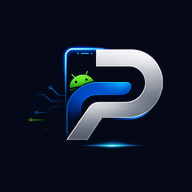
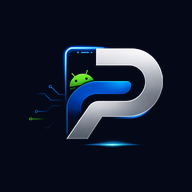
feat(intro): مونتاژ سینمایی لوگوی جدید + هالهی طلایی چرخان + فرود تاج پادشاهی
ترتیب جدید سینمایی ورود (فقط صفحهی اصلی، روی لوگوی رسمی جدید):
۱) تکهبهتکه: ۶ قطعهی مکمل از خود لوگو (clip-path روی یک تصویر) از چهار
   جهت با بلور و درخشش پرواز میکنند و روی جای خود با ضربهی نرم قفل
   میشوند (0.2s تا 2.1s)؛ لوگوی کامل بدون درز جانشین میشود.
۲) فینال طلایی: هالهی طلایی چرخان (conic + mask رینگ) همراه دو مدار
   موجود دور لوگوی کامل میچرخد؛ ستارهها و تگلاین بعد از مونتاژ.
۳) تاج پادشاهی (همان crown.svg برند): از بالا با چرخش و ریباند نرم روی
   «سر» لوگو مینشیند و با فلاش طلایی (intro-burst) و درخشش تپنده تمام
   میشود.
- لوگوی شفاف: آلفای هالهی کمرمق فشرده شد (گاما 1.55 + کف 12 + پرِ لبه)
  تا هیچ کادر/مربع محویی پشت لوگو دیده نشود و ماسکها تمیز بمانند.
- سقفهای زمانی با صحنهی بلندتر همگام شد: MIN=4450ms، MAX=7600ms
  (سقف سخت حفظ شده؛ reduced-motion همان نسخهی سادهی سریع خودش —
  تکه/تاج/هاله نمایش داده نمیشوند).
- برش sheen داخل لوگو-باکس حذف و بهجای آن ظرف برش مستقل؛ سپس با
  توجه به فینال جدید، sheen از تایملاین خارج شد (قاعدهی mask حفظ شد).

تستها: 222/222 سبز. بررسی بصری موبایل (390×844@2x) و دسکتاپ (1280)
فریمبهفریم انجام شد؛ بدون پرش RTL، بدون درز مونتاژ.

diff --git a/style.css b/style.css
@@ -4131,8 +4131,8 @@ body.light .field textarea {
   mask: radial-gradient(farthest-side, transparent calc(100% - 3.5px), #000 calc(100% - 1px));
   filter: drop-shadow(0 0 6px rgba(249, 200, 90, 0.8));
   animation:
-    introOrbitIn 1.1s ease 0.95s forwards,
-    introOrbitSpin 6.5s linear 0.95s infinite;
+    introOrbitIn 1.1s ease 2.2s forwards,
+    introOrbitSpin 6.5s linear 2.2s infinite;
   pointer-events: none;
 }
 
@@ -4149,31 +4149,75 @@ body.light .field textarea {
   );
   filter: drop-shadow(0 0 4px rgba(249, 200, 90, 0.6));
   animation:
-    introOrbitIn 1.1s ease 1.2s forwards,
-    introOrbitSpinRev 9s linear 1.2s infinite;
+    introOrbitIn 1.1s ease 2.35s forwards,
+    introOrbitSpinRev 9s linear 2.35s infinite;
 }
 
-/* لوگو: متمرکز شدن سینمایی (focus-pull) + درخشش دائمی */
+/* لوگو: مونتاژ قطعهبهقطعه — هر تکه از یک جهت با بلور و درخشش میآید
+   و روی جای خود «قفل» میشود؛ در انتها لوگوی کامل بدون درز جانشین میشود */
 .js .intro-logo-box {
   position: relative;
   line-height: 0;
-  overflow: hidden; /* برق نور (sheen) فقط داخل کادر لوگو دیده شود؛ وگرنه
-                       نسخهی ماسکشدهاش هنگام حرکت، لبهی صفحه ظاهر میشد */
-  opacity: 0;
-  transform: scale(1.16);
-  filter: blur(18px) brightness(0.55);
-  animation:
-    introLogoIn 1.25s cubic-bezier(0.19, 1, 0.22, 1) 0.12s forwards,
-    introLogoGlow 3.6s ease-in-out 1.9s infinite;
+  animation: introLogoGlow 3.6s ease-in-out 2.3s infinite;
 }
 
+.js .intro-piece {
+  position: absolute;
+  inset: 0;
+  z-index: 1;
+  background: url("assets/brand/parsa-main-logo-transparent.png") center / 100% 100% no-repeat;
+  opacity: 0;
+  transform: translate(var(--dx), var(--dy)) rotate(var(--rot)) scale(1.14);
+  filter: blur(12px) brightness(1.7);
+  animation: introPieceIn 0.95s cubic-bezier(0.18, 0.9, 0.24, 1.12) var(--d) forwards;
+  will-change: transform, opacity, filter;
+  pointer-events: none;
+}
+
+.js .intro-piece.pc1 {
+  clip-path: polygon(0 0, 55% 0, 40% 55%, 0 62%);
+  --dx: -132%; --dy: -26%; --rot: -14deg; --d: 0.2s;
+}
+
+.js .intro-piece.pc2 {
+  clip-path: polygon(55% 0, 100% 0, 100% 58%, 40% 55%);
+  --dx: 132%; --dy: -30%; --rot: 12deg; --d: 0.38s;
+}
+
+.js .intro-piece.pc3 {
+  clip-path: polygon(0 62%, 40% 55%, 46% 76%, 0 76%);
+  --dx: -142%; --dy: 20%; --rot: 10deg; --d: 0.56s;
+}
+
+.js .intro-piece.pc4 {
+  clip-path: polygon(40% 55%, 100% 58%, 100% 76%, 46% 76%);
+  --dx: 142%; --dy: 24%; --rot: -9deg; --d: 0.74s;
+}
+
+.js .intro-piece.pc5 {
+  clip-path: polygon(0 76%, 100% 76%, 100% 92%, 0 92%);
+  --dx: 0%; --dy: 175%; --rot: 0deg; --d: 0.98s;
+}
+
+.js .intro-piece.pc6 {
+  clip-path: polygon(0 92%, 100% 92%, 100% 100%, 0 100%);
+  --dx: 0%; --dy: 235%; --rot: 0deg; --d: 1.14s;
+}
+
+/* لوگوی کامل: بعد از نشستن تکهها، بدون درز جانشین میشود */
 .js .intro-logo {
+  position: relative;
+  z-index: 2;
   display: block;
   width: 100%;
   height: auto;
+  opacity: 0;
+  animation: introLogoSolidify 0.5s ease 2.2s forwards;
 }
 
-/* برق نور که دقیقاً از روی شکل لوگو میگذرد (mask = خود لوگو) */
+/* برق نور روی لوگو (mask = خود لوگو): در تایملاین مونتاژ استفاده نمیشود
+   — فینال با هالهی چرخان، فلاش تاج و درخشش لوگو انجام میشود — اما
+   قاعده و ماسک برای سازگاری آینده نگه داشته شده است. */
 .js .intro-sheen {
   position: absolute;
   inset: 0;
@@ -4190,7 +4234,70 @@ body.light .field textarea {
   mix-blend-mode: screen;
   transform: translateX(-130%) skewX(-16deg);
   opacity: 0;
-  animation: introSheen 1.5s cubic-bezier(0.4, 0, 0.2, 1) 1.25s 2;
+  pointer-events: none;
+}
+
+/* هالهی طلایی چرخان دور لوگوی کامل (فینال مونتاژ) */
+.js .intro-halo {
+  position: absolute;
+  inset: -9%;
+  z-index: 2;
+  border-radius: 50%;
+  background: conic-gradient(
+    from 0deg,
+    transparent 0deg,
+    rgba(255, 214, 120, 0.07) 58deg,
+    rgba(255, 226, 150, 0.55) 98deg,
+    rgba(255, 246, 220, 0.98) 118deg,
+    rgba(255, 214, 120, 0.07) 178deg,
+    transparent 240deg,
+    transparent 360deg
+  );
+  -webkit-mask: radial-gradient(farthest-side, transparent calc(100% - 6.5px), #000 calc(100% - 2px));
+  mask: radial-gradient(farthest-side, transparent calc(100% - 6.5px), #000 calc(100% - 2px));
+  filter: drop-shadow(0 0 13px rgba(249, 200, 90, 0.8));
+  opacity: 0;
+  animation:
+    introFadeIn 0.9s ease 2.25s forwards,
+    introHaloSpin 7s linear 2.25s infinite;
+  pointer-events: none;
+}
+
+/* تاج پادشاهی: از بالا فرود میآید، روی «سر» لوگو مینشیند و میدرخشد */
+.js .intro-crown {
+  position: absolute;
+  z-index: 5;
+  top: 1%;
+  left: 50%;
+  width: 33%;
+  margin-left: -16.5%;
+  opacity: 0;
+  transform: translateY(-190%) rotate(-16deg) scale(1.3);
+  filter: blur(5px) drop-shadow(0 10px 16px rgba(0, 0, 0, 0.45));
+  animation:
+    introCrownDrop 1.05s cubic-bezier(0.32, 1.16, 0.4, 1) 2.9s forwards,
+    introCrownGlow 2.8s ease-in-out 4.05s infinite;
+  pointer-events: none;
+}
+
+/* فلاش طلایی لحظهی نشستن تاج */
+.js .intro-burst {
+  position: absolute;
+  z-index: 4;
+  top: -14%;
+  left: 50%;
+  width: 44%;
+  aspect-ratio: 1;
+  margin-left: -22%;
+  border-radius: 50%;
+  background: radial-gradient(
+    circle,
+    rgba(255, 240, 200, 0.95) 0%,
+    rgba(255, 214, 120, 0.5) 30%,
+    transparent 62%
+  );
+  opacity: 0;
+  animation: introBurst 0.85s cubic-bezier(0.16, 0.84, 0.34, 1) 3.5s forwards;
   pointer-events: none;
 }
 
@@ -4209,10 +4316,10 @@ body.light .field textarea {
   pointer-events: none;
 }
 
-.js .intro-star.st1 { top: 6%; right: 9%; font-size: 15px; animation-delay: 1.5s, 2.9s; }
-.js .intro-star.st2 { top: 24%; left: 1%; font-size: 11px; animation-delay: 1.75s, 3.4s; }
-.js .intro-star.st3 { bottom: 16%; right: -1%; font-size: 12px; animation-delay: 2s, 3.9s; }
-.js .intro-star.st4 { bottom: 3%; left: 14%; font-size: 17px; animation-delay: 2.2s, 4.3s; }
+.js .intro-star.st1 { top: 6%; right: 9%; font-size: 15px; animation-delay: 2.3s, 3.7s; }
+.js .intro-star.st2 { top: 24%; left: 1%; font-size: 11px; animation-delay: 2.5s, 4.1s; }
+.js .intro-star.st3 { bottom: 16%; right: -1%; font-size: 12px; animation-delay: 2.7s, 4.4s; }
+.js .intro-star.st4 { bottom: 3%; left: 14%; font-size: 17px; animation-delay: 2.9s, 4.7s; }
 
 /* شعار کوتاه زیر لوگو */
 .js .intro-tagline {
@@ -4224,7 +4331,7 @@ body.light .field textarea {
   text-shadow: 0 0 18px rgba(249, 196, 80, 0.35);
   opacity: 0;
   transform: translateY(12px);
-  animation: introTagline 0.9s cubic-bezier(0.22, 1, 0.36, 1) 1.95s forwards;
+  animation: introTagline 0.9s cubic-bezier(0.22, 1, 0.36, 1) 3.4s forwards;
 }
 
 /* خط پیشرفت طلایی + نقطهی درخشان نوک آن */
@@ -4334,6 +4441,68 @@ body.light .field textarea {
   }
 }
 
+/* جانشینی لوگوی کامل پس از مونتاژ تکهها (حذف درزهای برخورد) */
+@keyframes introLogoSolidify {
+  to { opacity: 1; }
+}
+
+/* ورود هر تکه: از بیرون با بلور و درخشش، قفلشدن روی جای خود */
+@keyframes introPieceIn {
+  0% {
+    opacity: 0;
+    transform: translate(var(--dx), var(--dy)) rotate(var(--rot)) scale(1.14);
+    filter: blur(12px) brightness(1.7);
+  }
+  55% { opacity: 1; }
+  72% { filter: blur(0) brightness(1.3); }
+  84% { transform: translate(0, 0) rotate(0deg) scale(0.986); }
+  100% {
+    opacity: 1;
+    transform: translate(0, 0) rotate(0deg) scale(1);
+    filter: blur(0) brightness(1);
+  }
+}
+
+/* چرخش هالهی طلایی */
+@keyframes introHaloSpin {
+  from { transform: rotate(0deg); }
+  to   { transform: rotate(360deg); }
+}
+
+/* فرود تاج: پایین میآید، ریباند نرم، مینشیند */
+@keyframes introCrownDrop {
+  0% {
+    opacity: 0;
+    transform: translateY(-190%) rotate(-16deg) scale(1.3);
+    filter: blur(5px) drop-shadow(0 10px 16px rgba(0, 0, 0, 0.45));
+  }
+  28% { opacity: 1; filter: blur(0) drop-shadow(0 10px 16px rgba(0, 0, 0, 0.45)); }
+  58% { transform: translateY(-18%) rotate(4deg) scale(1); }
+  74% { transform: translateY(-34%) rotate(-2deg) scale(1.03); }
+  100% {
+    opacity: 1;
+    transform: translateY(-26%) rotate(0deg) scale(1);
+    filter: blur(0) drop-shadow(0 8px 14px rgba(0, 0, 0, 0.42));
+  }
+}
+
+/* درخشش آرام تاج پس از نشستن */
+@keyframes introCrownGlow {
+  0%, 100% {
+    filter: drop-shadow(0 8px 14px rgba(0, 0, 0, 0.42)) drop-shadow(0 0 9px rgba(249, 196, 80, 0.25));
+  }
+  50% {
+    filter: drop-shadow(0 8px 14px rgba(0, 0, 0, 0.42)) drop-shadow(0 0 24px rgba(255, 214, 120, 0.65));
+  }
+}
+
+/* فلاش لحظهی نشستن تاج */
+@keyframes introBurst {
+  0%   { opacity: 0; transform: scale(0.3); }
+  22%  { opacity: 0.95; }
+  100% { opacity: 0; transform: scale(1.75); }
+}
+
 @keyframes introLogoGlow {
   0%, 100% {
     filter: blur(0) brightness(1) drop-shadow(0 0 16px rgba(249, 196, 80, 0.22));
@@ -4427,7 +4596,11 @@ body.light .field textarea {
   .js .intro-orbit,
   .js .intro-sheen,
   .js .intro-star,
-  .js .intro-bloom {
+  .js .intro-bloom,
+  .js .intro-piece,
+  .js .intro-crown,
+  .js .intro-halo,
+  .js .intro-burst {
     display: none;
   }
 
@@ -4435,9 +4608,7 @@ body.light .field textarea {
     animation: none;
   }
 
-  .js .intro-logo-box {
-    transform: none;
-    filter: blur(0) brightness(1);
+  .js .intro-logo {
     animation: introLogoSimple 0.5s ease 0.05s forwards;
   }
 

diff --git a/index.html b/index.html
@@ -65,8 +65,18 @@
         <span class="intro-orbit" aria-hidden="true"></span>
         <span class="intro-orbit o2" aria-hidden="true"></span>
         <div class="intro-logo-box">
-          <img class="intro-logo" src="assets/brand/parsa-main-logo-transparent.png" alt="" width="800" height="805">
-          <span class="intro-sheen" aria-hidden="true"></span>
+          <!-- تکههای لوگو: مونتاژ قطعهبهقطعه (همه از یک تصویر با برشهای مکمل) -->
+          <span class="intro-piece pc1" aria-hidden="true"></span>
+          <span class="intro-piece pc2" aria-hidden="true"></span>
+          <span class="intro-piece pc3" aria-hidden="true"></span>
+          <span class="intro-piece pc4" aria-hidden="true"></span>
+          <span class="intro-piece pc5" aria-hidden="true"></span>
+          <span class="intro-piece pc6" aria-hidden="true"></span>
+          <img class="intro-logo" src="assets/brand/parsa-main-logo-transparent.png" alt="" width="800" height="870">
+          <!-- هالهی طلایی چرخان + فرود تاج پادشاهی -->
+          <span class="intro-halo" aria-hidden="true"></span>
+          <span class="intro-burst" aria-hidden="true"></span>
+          <img class="intro-crown" src="assets/crown.svg" alt="" aria-hidden="true">
         </div>
         <span class="intro-star st1" aria-hidden="true">✦</span>
         <span class="intro-star st2" aria-hidden="true">✦</span>

diff --git a/intro.js b/intro.js
@@ -177,8 +177,8 @@
       engineStarted = true;
       t0 = now();
 
-      var MIN = reduced ? 1000 : 3050;
-      var MAX = reduced ? 1700 : 6500;
+      var MIN = reduced ? 1000 : 4450;
+      var MAX = reduced ? 1700 : 7600;
 
       /* ۱) سقف سخت: اول از همه ثبت میشود تا محتوا هرگز گیر نکند */
       setTimeout(finish, MAX);

diff --git a/tools/make_new_logo.py b/tools/make_new_logo.py
@@ -57,11 +57,11 @@ band = mask & (alpha > 8) & (alpha < 252)
 scale = 255.0 / np.maximum(alpha, 8.0)
 for c in range(3):
     soft[:, :, c] = np.where(band, np.minimum(255.0, a[:, :, c] * scale), a[:, :, c])
-alpha[alpha < 9] = 0  # دود بسیار ضعیف حذف شود
+alpha[alpha < 12] = 0  # دود بسیار ضعیف حذف شود
 
 # ---------- ۳) نرمسازی آلفا: فشردهی گامایی هالهی کمرمق + پرِ لبهی بوم
 # (تا لبهی مربع برش، هیچگاه بهصورت خط/کادر دیده نشود)
-alpha = (alpha / 255.0) ** 1.25 * 255.0
+alpha = (alpha / 255.0) ** 1.55 * 255.0
 Hh, Ww = alpha.shape
 F = 0.06  # ضخامت پرِ لبه
 yy = np.arange(Hh)[:, None]

diff --git a/tools/export_new_logo_assets.py b/tools/export_new_logo_assets.py
@@ -102,8 +102,11 @@ def build_ico(images, path):
 
 print("== خروجیها ==")
 
-# ۱) لوگوی شفاف اصلی (اینترو + ماسک برق) — ۸۰۰ پیکسل
-png_opt(master.resize((800, 800), Image.LANCZOS), f"{ROOT}/assets/brand/parsa-main-logo-transparent.png")
+# ۱) لوگوی شفاف اصلی (اینترو + ماسک برق) — عرض ۸۰۰ با نسبت واقعی
+_w, _h = master.size
+_tw = 800
+_th = round(_h * _tw / _w)
+png_opt(master.resize((_tw, _th), Image.LANCZOS), f"{ROOT}/assets/brand/parsa-main-logo-transparent.png")
 
 # ۲) نشان هدر/فوتر/دربارهما (JPG — محدودیت تست: <۱۵۰KB)
 jpg_dark(emblem, 512, f"{ROOT}/assets/brand/parsa-main-mark.jpg")
